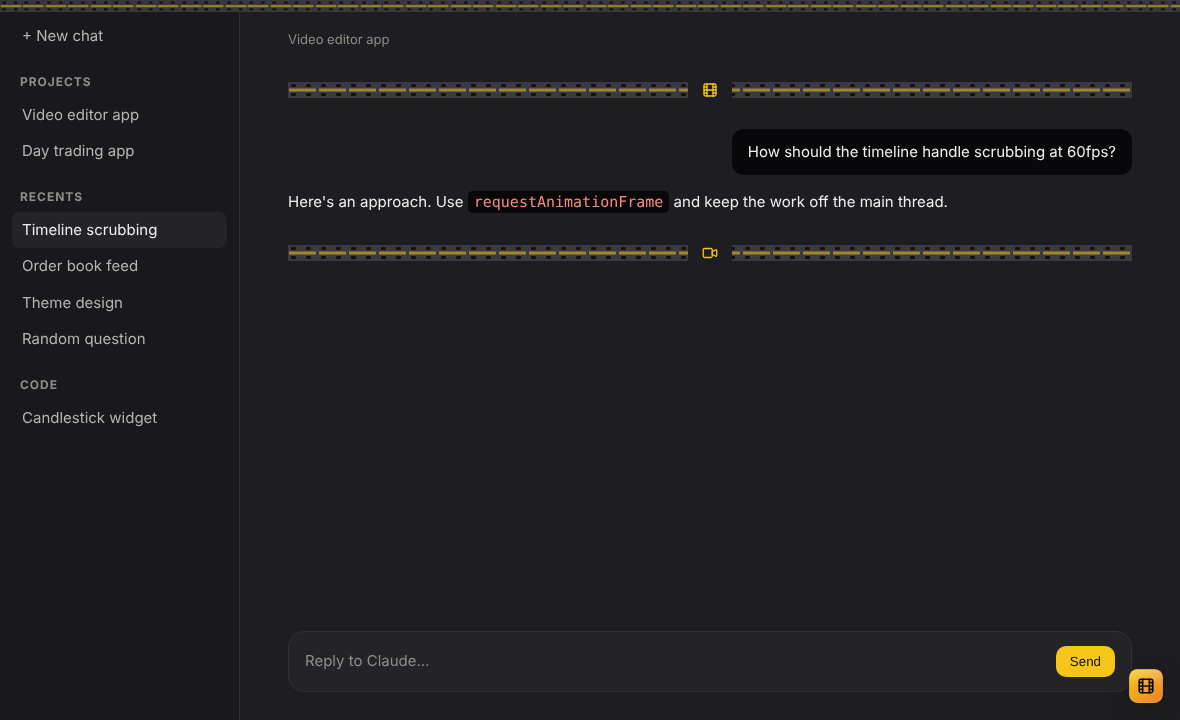
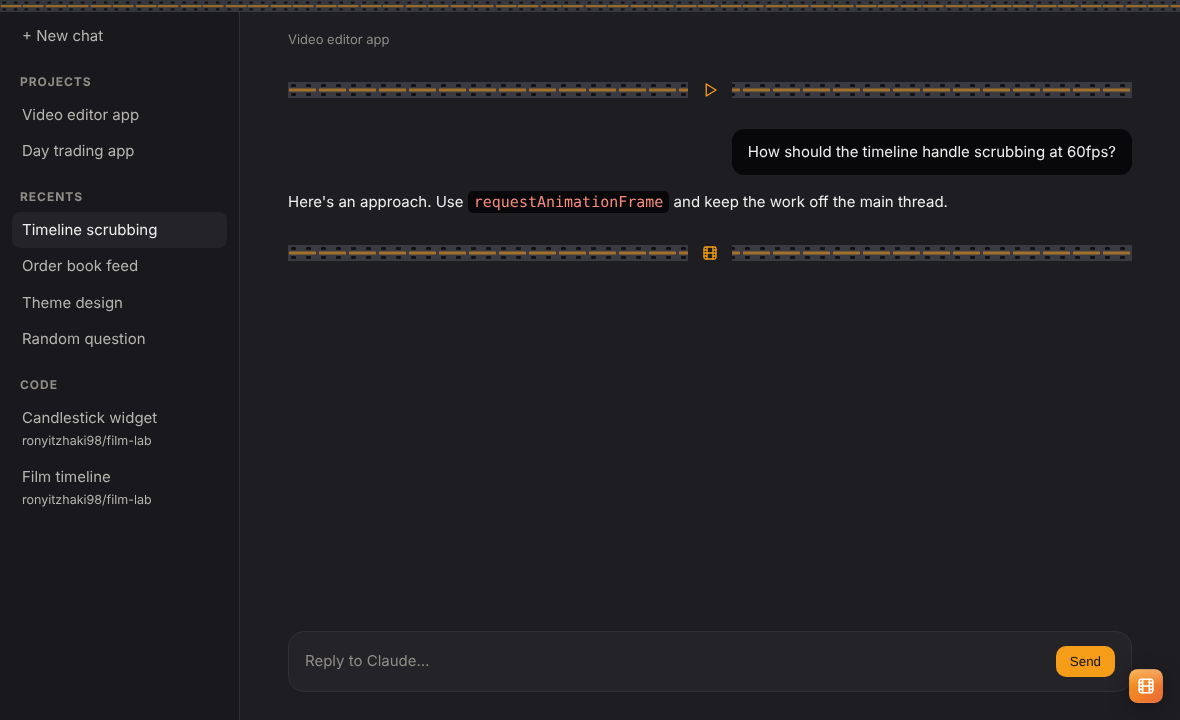
Give each Claude Code session and each project its own starter look
Code sessions were keyed by the first owner/repo text on the page, which is
the sidebar's session list, so every session shared one theme; an unnamed
session's title ("Claude Code") also fed every one the default motif. Each
session is now keyed by itself, waits for its real title, and reads its repo
only from the open session. Starter themes also turn their hues a little per
idea, so projects on the same motif no longer look identical.

Claude-Session: https://claude.ai/code/session_0178DX4JEm3sSF1rCvtfJeNi

diff --git a/extension/content.js b/extension/content.js
@@ -111,24 +111,32 @@
     return { kind: 'project', key: `project:${id}`, name, idea: name, design: null, viaPage: true }
   }
 
-  // Claude Code on the web (claude.ai/code/session_…): there is no project, so
-  // the repository the session works in plays that part, and the session's
-  // title (Claude names it after the first prompt) is the idea.
+  // Claude Code on the web (claude.ai/code/session_…): there is no project,
+  // so each session is its own, with its title (Claude names it after the
+  // first prompt) as the idea and its repository as extra context. Sessions
+  // in one repo still differ, because each one is usually a different idea.
   function sessionTitle() {
-    return document.title.replace(/\s*[|·–—-]\s*Claude(\s+Code)?\s*$/i, '').trim()
+    const title = document.title.replace(/\s*[|·–—-]\s*Claude(\s+Code)?\s*$/i, '').trim()
+    // Before Claude names the session the tab just says "Claude Code".
+    return /^(claude(\s+code)?|new session|untitled)?$/i.test(title) ? '' : title
   }
 
   const REPO = /^([A-Za-z0-9][\w.-]*)\/([A-Za-z][\w.-]*)$/
+  // Only the open session's own header and body: the sidebar lists every
+  // session with its repo, and reading it would give all of them the first one.
+  const OTHER = 'nav, aside, [role="navigation"], [role="complementary"], a[href^="/code/"], pre, code, [contenteditable="true"]'
   function findRepo() {
-    const link = [...document.querySelectorAll('a[href*="github.com/"]')]
+    const scope = document.querySelector('main') || document.body
+    if (!scope) return null
+    const link = [...scope.querySelectorAll('a[href*="github.com/"]')]
+      .filter(a => !a.closest(OTHER))
       .map(a => a.getAttribute('href').match(/github\.com\/([\w.-]+)\/([\w.-]+)/))
       .find(m => m && !['apps', 'settings', 'orgs', 'login'].includes(m[1]))
     if (link) return { repo: `${link[1]}/${link[2].replace(/\.git$/, '')}`, via: 'link' }
-    if (!document.body) return null
-    const walker = document.createTreeWalker(document.body, NodeFilter.SHOW_TEXT)
+    const walker = document.createTreeWalker(scope, NodeFilter.SHOW_TEXT)
     for (let n = walker.nextNode(), i = 0; n && i < 6000; n = walker.nextNode(), i++) {
       const text = n.textContent.trim()
-      if (text.length < 80 && REPO.test(text) && !n.parentElement.closest('pre, code, [contenteditable="true"]')) return { repo: text, via: 'text' }
+      if (text.length < 80 && REPO.test(text) && !n.parentElement.closest(OTHER)) return { repo: text, via: 'text' }
     }
     return null
   }
@@ -152,14 +160,15 @@
     const session = location.pathname.match(/^\/code\/(session_[\w-]+)/)?.[1]
     if (!session) return null
     const title = sessionTitle()
+    // Not named yet: look again when the title arrives (it is in the signature).
+    if (!title) return null
     const found = findRepo()
     const repoName = found?.repo.split('/')[1] || ''
-    if (!title && !found) return null
     return {
       kind: 'code',
-      key: found ? `repo:${found.repo.toLowerCase()}` : `code:${session}`,
-      name: repoName || title,
-      idea: title && repoName ? `${title} (${repoName})` : title || repoName,
+      key: `code:${session}`,
+      name: title,
+      idea: repoName ? `${title} (repo: ${repoName})` : title,
       design: codeDesign(),
       viaPage: true,
       repoVia: found?.via || null,

diff --git a/claude-code-plugin/hooks/core/generate.js b/claude-code-plugin/hooks/core/generate.js
@@ -9,6 +9,7 @@
 // `complete(system, prompt)` resolves the reply's text. With no `complete`, or
 // when the call fails, the keyword fallback still returns a full theme.
 
+import { hexToHsl, hslToHex } from './color.js'
 import { MOTIFS, MOTIF_IDS, matchMotif } from './motifs.js'
 import { PATTERN_IDS } from './patterns.js'
 import { PALETTE_KEYS, normalizeTheme } from './theme.js'
@@ -80,9 +81,29 @@ export function extractJson(text) {
   return null
 }
 
+// A small, stable twist per idea, so two projects that land on the same motif
+// don't look identical: the surfaces and accents turn a little around the hue
+// wheel and the icons come in a different order. Gains and losses keep their
+// red and green.
+function vary(base, seedText) {
+  let h = 2166136261
+  for (const c of String(seedText)) h = Math.imul(h ^ c.charCodeAt(0), 16777619)
+  const seed = h >>> 0
+  const turn = (seed % 41) - 20
+  const palette = { ...base.palette }
+  for (const key of ['bg', 'surface', 'surfaceAlt', 'border', 'accent', 'accent2']) {
+    if (!palette[key]) continue
+    const c = hexToHsl(palette[key])
+    palette[key] = hslToHex({ ...c, h: (c.h + turn + 360) % 360 })
+  }
+  const icons = base.icons || []
+  const shift = icons.length ? (seed >>> 8) % icons.length : 0
+  return { ...base, palette, icons: [...icons.slice(shift), ...icons.slice(0, shift)] }
+}
+
 export function fallbackTheme({ idea, projectName, resolveIcon }) {
   const motif = matchMotif(`${projectName || ''} ${idea || ''}`)
-  const base = MOTIFS[motif]
+  const base = vary(MOTIFS[motif], `${projectName || ''}|${idea || ''}`)
   return normalizeTheme(
     { ...base, motif, name: projectName ? `${projectName}` : base.name, idea },
     { idea, fallbackMotif: motif, resolveIcon },

diff --git a/core/generate.js b/core/generate.js
@@ -9,6 +9,7 @@
 // `complete(system, prompt)` resolves the reply's text. With no `complete`, or
 // when the call fails, the keyword fallback still returns a full theme.
 
+import { hexToHsl, hslToHex } from './color.js'
 import { MOTIFS, MOTIF_IDS, matchMotif } from './motifs.js'
 import { PATTERN_IDS } from './patterns.js'
 import { PALETTE_KEYS, normalizeTheme } from './theme.js'
@@ -80,9 +81,29 @@ export function extractJson(text) {
   return null
 }
 
+// A small, stable twist per idea, so two projects that land on the same motif
+// don't look identical: the surfaces and accents turn a little around the hue
+// wheel and the icons come in a different order. Gains and losses keep their
+// red and green.
+function vary(base, seedText) {
+  let h = 2166136261
+  for (const c of String(seedText)) h = Math.imul(h ^ c.charCodeAt(0), 16777619)
+  const seed = h >>> 0
+  const turn = (seed % 41) - 20
+  const palette = { ...base.palette }
+  for (const key of ['bg', 'surface', 'surfaceAlt', 'border', 'accent', 'accent2']) {
+    if (!palette[key]) continue
+    const c = hexToHsl(palette[key])
+    palette[key] = hslToHex({ ...c, h: (c.h + turn + 360) % 360 })
+  }
+  const icons = base.icons || []
+  const shift = icons.length ? (seed >>> 8) % icons.length : 0
+  return { ...base, palette, icons: [...icons.slice(shift), ...icons.slice(0, shift)] }
+}
+
 export function fallbackTheme({ idea, projectName, resolveIcon }) {
   const motif = matchMotif(`${projectName || ''} ${idea || ''}`)
-  const base = MOTIFS[motif]
+  const base = vary(MOTIFS[motif], `${projectName || ''}|${idea || ''}`)
   return normalizeTheme(
     { ...base, motif, name: projectName ? `${projectName}` : base.name, idea },
     { idea, fallbackMotif: motif, resolveIcon },

diff --git a/extension/core/generate.js b/extension/core/generate.js
@@ -9,6 +9,7 @@
 // `complete(system, prompt)` resolves the reply's text. With no `complete`, or
 // when the call fails, the keyword fallback still returns a full theme.
 
+import { hexToHsl, hslToHex } from './color.js'
 import { MOTIFS, MOTIF_IDS, matchMotif } from './motifs.js'
 import { PATTERN_IDS } from './patterns.js'
 import { PALETTE_KEYS, normalizeTheme } from './theme.js'
@@ -80,9 +81,29 @@ export function extractJson(text) {
   return null
 }
 
+// A small, stable twist per idea, so two projects that land on the same motif
+// don't look identical: the surfaces and accents turn a little around the hue
+// wheel and the icons come in a different order. Gains and losses keep their
+// red and green.
+function vary(base, seedText) {
+  let h = 2166136261
+  for (const c of String(seedText)) h = Math.imul(h ^ c.charCodeAt(0), 16777619)
+  const seed = h >>> 0
+  const turn = (seed % 41) - 20
+  const palette = { ...base.palette }
+  for (const key of ['bg', 'surface', 'surfaceAlt', 'border', 'accent', 'accent2']) {
+    if (!palette[key]) continue
+    const c = hexToHsl(palette[key])
+    palette[key] = hslToHex({ ...c, h: (c.h + turn + 360) % 360 })
+  }
+  const icons = base.icons || []
+  const shift = icons.length ? (seed >>> 8) % icons.length : 0
+  return { ...base, palette, icons: [...icons.slice(shift), ...icons.slice(0, shift)] }
+}
+
 export function fallbackTheme({ idea, projectName, resolveIcon }) {
   const motif = matchMotif(`${projectName || ''} ${idea || ''}`)
-  const base = MOTIFS[motif]
+  const base = vary(MOTIFS[motif], `${projectName || ''}|${idea || ''}`)
   return normalizeTheme(
     { ...base, motif, name: projectName ? `${projectName}` : base.name, idea },
     { idea, fallbackMotif: motif, resolveIcon },

diff --git a/test/e2e/fake-claude.html b/test/e2e/fake-claude.html
@@ -52,7 +52,8 @@
   <a href="/chat/dddddddd-dddd-4ddd-8ddd-dddddddddddd">Theme design</a>
   <a href="/chat/cccccccc-cccc-4ccc-8ccc-cccccccccccc">Random question</a>
   <h2>Code</h2>
-  <a href="/code/session_01TestTradingBot">Candlestick widget</a>
+  <a href="/code/session_01TestTradingBot">Candlestick widget <small>ronyitzhaki98/film-lab</small></a>
+  <a href="/code/session_01TestFilmTimeline">Film timeline <small>ronyitzhaki98/film-lab</small></a>
 </nav>
 <main id="main"></main>
 </div>
@@ -67,10 +68,11 @@
     const p = location.pathname
     if (p.startsWith('/code/')) {
       // Claude Code on the web: no project, a repo picker and a session title.
-      document.title = 'Build a candlestick chart widget for the trading dashboard - Claude Code'
+      const trading = p.includes('Trading')
+      document.title = trading ? 'Build a candlestick chart widget for the trading dashboard - Claude Code' : 'Video editing timeline with film strips and camera controls - Claude Code'
       document.querySelectorAll('nav a').forEach(a => a.classList.toggle('on', a.getAttribute('href') === p))
       document.getElementById('main').innerHTML = `
-        <header><button class="repo"><span>ronyitzhaki98/bull-desk</span></button> <span>main</span></header>
+        <header><button class="repo"><span>ronyitzhaki98/${trading ? 'bull-desk' : 'film-lab'}</span></button> <span>main</span></header>
         <hr>
         <div class="msg human">Build a candlestick chart widget for the trading dashboard</div>
         <div class="msg" id="code-reply">Sure. I'll start with the OHLC data model.</div>

diff --git a/test/core.test.js b/test/core.test.js
@@ -105,3 +105,13 @@ test('live tokens are retinted in the format the page wrote them', async () => {
   const css = toClaudeAiCss(theme, { root: page, scopes: { '.dframe-root': { '--df-sidebar-bg': '#1f1e1d' } } })
   assert.match(css, /html\[data-chameleon\] \.dframe-root \{[^}]*--df-sidebar-bg/)
 })
+
+test('two ideas with the same motif get different starter palettes', async () => {
+  const { fallbackTheme } = await import('../core/generate.js')
+  const a = fallbackTheme({ idea: 'a day trading app with candlestick charts', projectName: 'Bull desk', resolveIcon })
+  const b = fallbackTheme({ idea: 'a crypto portfolio tracker for traders', projectName: 'Coin watch', resolveIcon })
+  assert.equal(a.motif, b.motif)
+  assert.notEqual(a.palette.accent, b.palette.accent)
+  const again = fallbackTheme({ idea: 'a day trading app with candlestick charts', projectName: 'Bull desk', resolveIcon })
+  assert.equal(again.palette.accent, a.palette.accent, 'stable for the same project')
+})

diff --git a/README.md b/README.md
@@ -53,7 +53,7 @@ Themes are designed with the session's own model access (no extra API key). The 
 2. Open `chrome://extensions`, turn on Developer mode, **Load unpacked**, pick the `extension/` folder.
 Every project gets a starter theme right away, picked from its first prompt (see `docs/preview.html`). For a custom one, open the popup and press **Design with Claude**: it puts a design request in your chat (optionally with your own notes on the look), you press send, and when Claude replies with its ```` ```chameleon ```` block the project switches to that design. The popup can also turn the theme off for a project.
 
-Claude Code on the web (`claude.ai/code`) works too: a session has no project, so its GitHub repository plays that part (every session in the same repo shares a theme) and the session title is the idea. If the page doesn't show the repo, the theme is per session.
+Claude Code on the web (`claude.ai/code`) works too: a session has no project, so each session gets its own theme, from its title (Claude names it after your first prompt) plus its repository.
 
 If nothing changes, refresh the claude.ai tab after installing or reloading the extension, then open the popup and press **Copy diagnostics**. The report has the page's color-token counts and what detection found, and no chat text.
 
